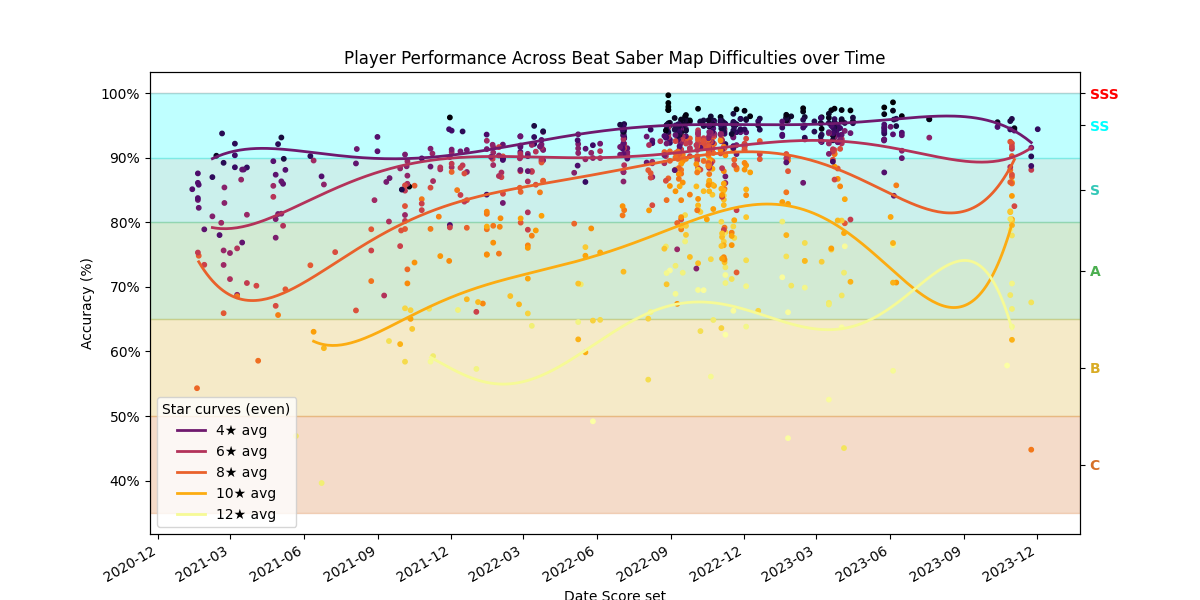
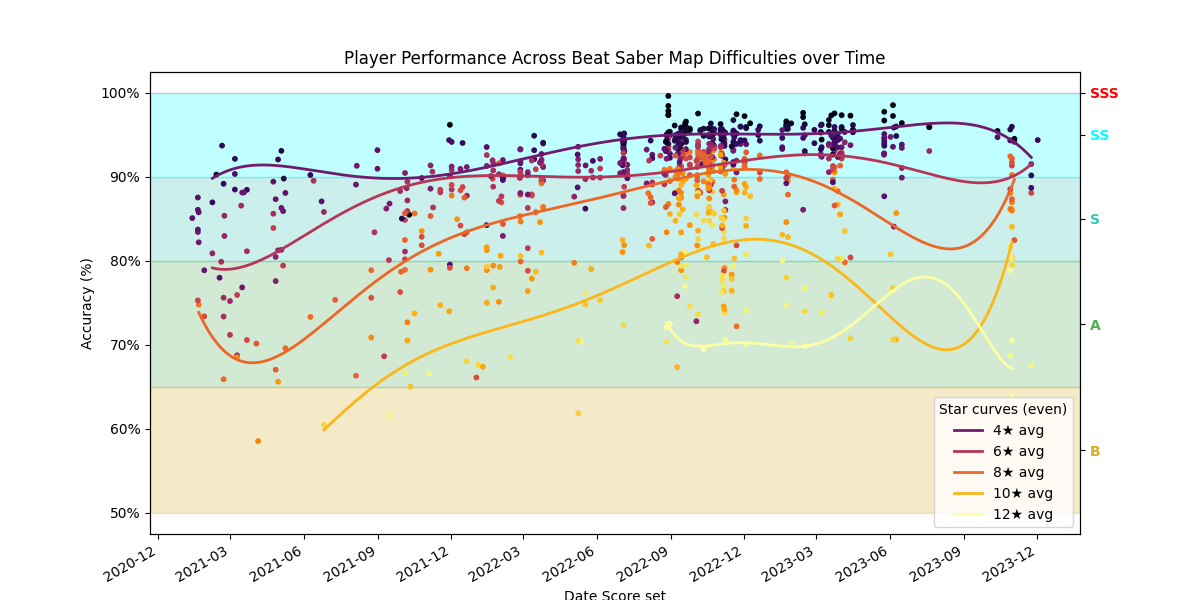
removed NF scores

diff --git a/create_acc_history_graph.py b/create_acc_history_graph.py
@@ -37,6 +37,7 @@ def create_maps_acc_graph():
     for label, y0, y1, color in ranges_pct:
         ax.axhspan(y0, y1, color=color, alpha=0.25)
 
+
     df["accuracy_pct"] = df["accuracy"] * 100
     df["star_cat"] = df["stars"].astype("category")
     codes = df["star_cat"].cat.codes

diff --git a/dataset/load_dataset.py b/dataset/load_dataset.py
@@ -18,6 +18,7 @@ def load_dataset(ranked=False):
 
     if ranked:
         data = data[data["pp"] > 0]
+        data = data[data["modifiers"] != "NF"]
 
     data = data[data["accuracy"] < 200]
 
